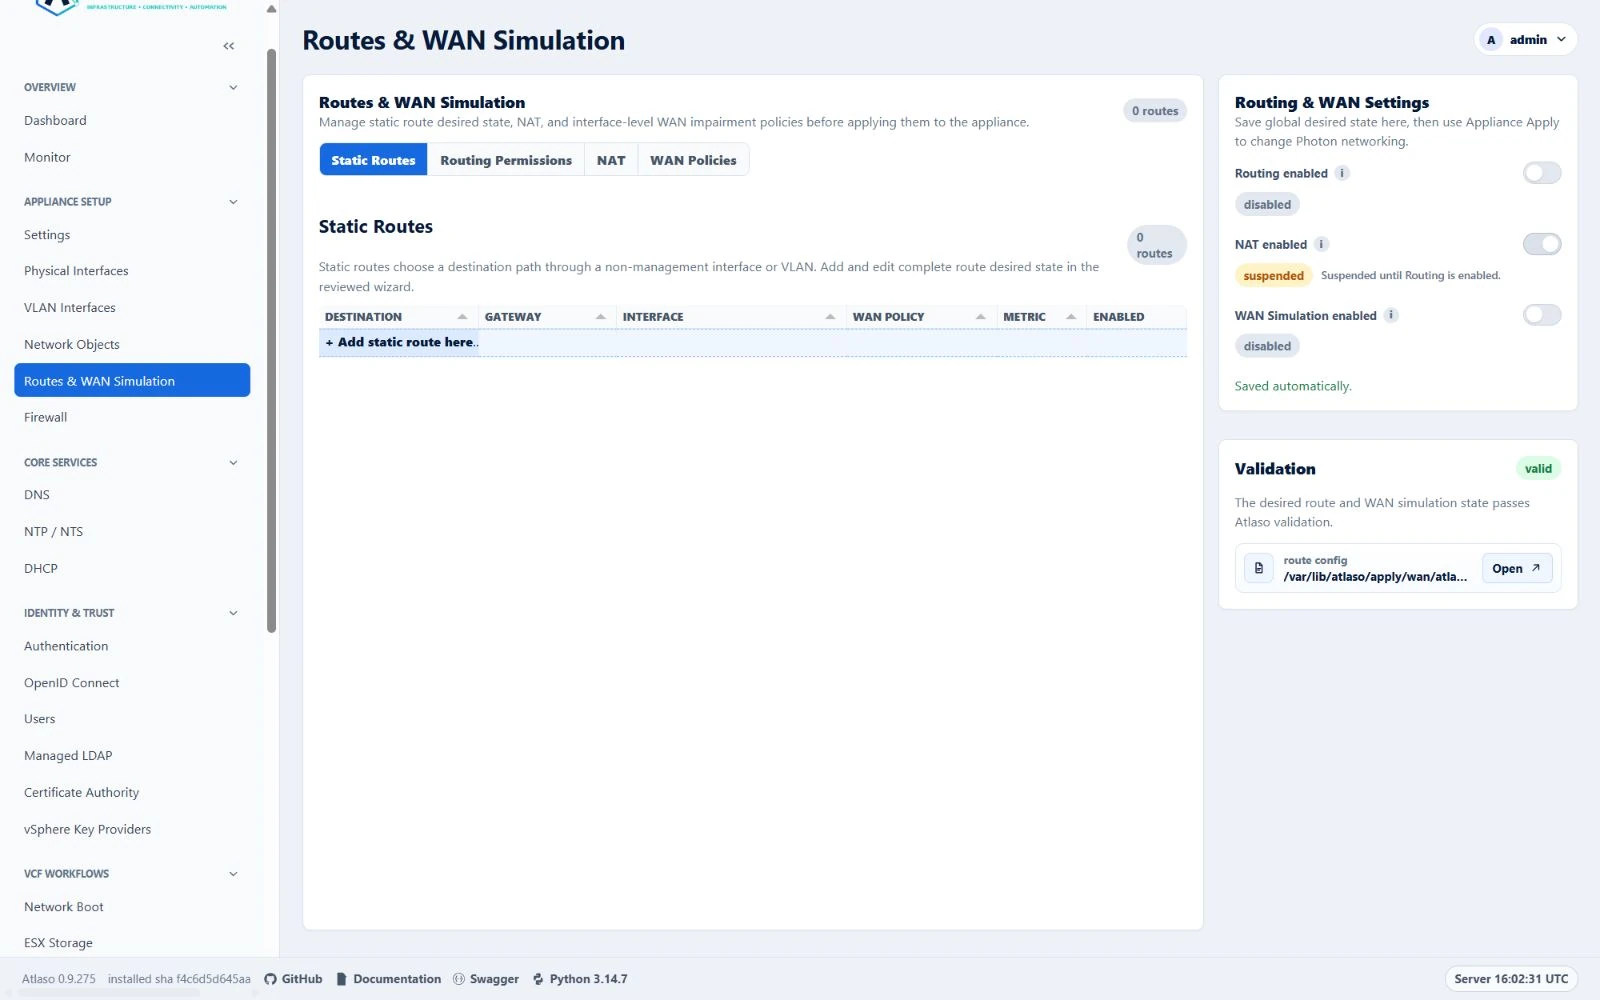
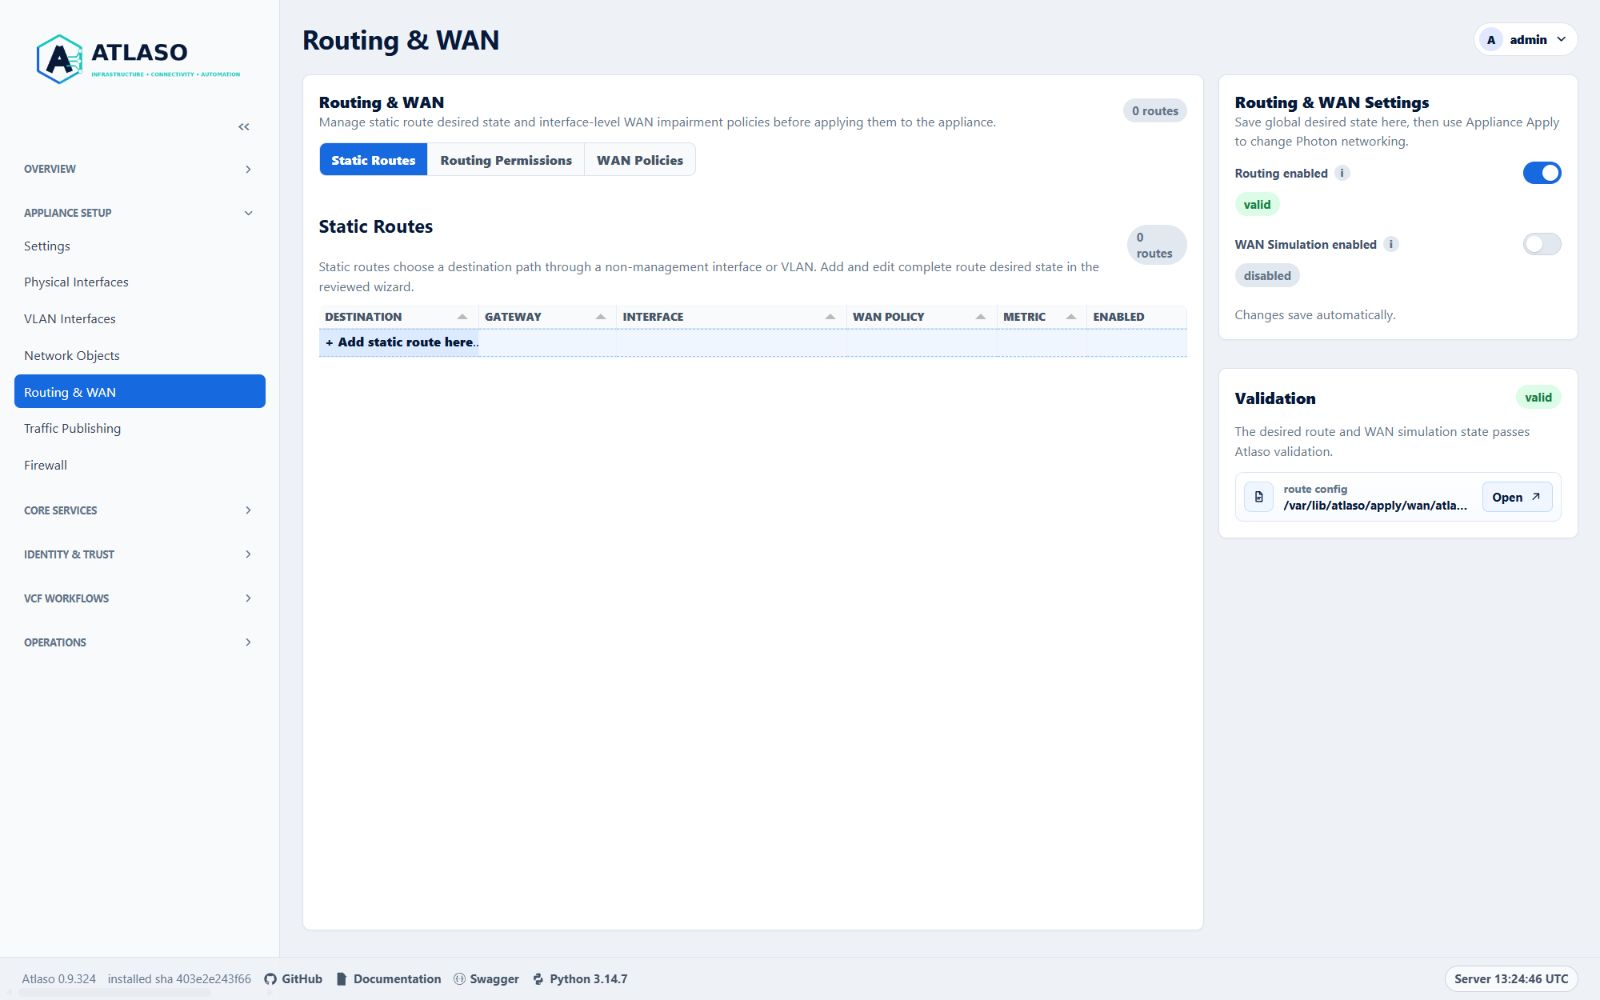
docs: capture deployed Traffic Publishing and routing flows (#721)

diff --git a/scripts/generate_screenshot_manifest.py b/scripts/generate_screenshot_manifest.py
@@ -22,23 +22,23 @@ CAPTURE_OVERRIDES = {
     **{
         stem: {
             "route": "/ui/management/routes-wan",
-            "state": "suspended-nat",
-            "source_commit": "45b4c2c2d640+working-tree",
-            "atlaso_version": "0.9.275",
-            "caption": (
-                "Routes and WAN Simulation with global routing disabled and the saved "
-                "NAT choice visibly suspended."
-            ),
-            "alt": (
-                "Atlaso Routes and WAN Simulation showing disabled routing, a checked "
-                "but unavailable NAT switch, and the suspended status."
-            ),
-            "capture_method": "codex-in-app-browser",
+            "state": "routing-enabled",
+            "source_commit": "acff23cfa411719824a704f20a154877d74ef05b",
+            "atlaso_version": "0.9.324",
+            "caption": "Routing & WAN owns forwarding and WAN simulation; source NAT is configured in Traffic Publishing.",
+            "alt": "Atlaso Routing & WAN with routing enabled, WAN simulation disabled, and no NAT controls.",
+            "capture_method": "edge-browser",
         }
-        for stem in (
-            "routes-wan-clean-desktop",
-            "routes-wan-clean-responsive",
-        )
+        for stem in ("routes-wan-clean-desktop", "routes-wan-clean-responsive")
+    },
+    **{
+        stem: {
+            "source_commit": "acff23cfa411719824a704f20a154877d74ef05b",
+            "atlaso_version": "0.9.324",
+            "capture_method": "edge-browser",
+        }
+        for stem in ("traffic-publishing-desktop", "traffic-publishing-responsive",
+                     "traffic-publishing-wizard-desktop", "traffic-publishing-wizard-responsive")
     },
     **{
         stem: {
@@ -250,6 +250,7 @@ DOCUMENTATION_PAGES = {
     "operate/automation.md": ("automation-",),
     "operate/networking.md": ("physical-interfaces-", "routes-wan-", "vlan-interfaces-"),
     "operate/network-objects.md": ("network-objects-",),
+    "operate/traffic-publishing.md": ("traffic-publishing-",),
     "operate/web-terminal.md": ("terminal-",),
     "services/dns.md": ("dns-",),
     "services/dhcp.md": ("dhcp-",),
@@ -314,6 +315,18 @@ ROUTES = {
 }
 
 SPECIAL = {
+    **{
+        stem: ("/ui/management/traffic-publishing", "applied-source-nat",
+               "Traffic Publishing with reviewed IPv4 masquerade and the canonical NAT setting.",
+               "Atlaso Traffic Publishing showing explicit eth2 ingress, eth3 egress, and enabled source NAT.")
+        for stem in ("traffic-publishing-desktop", "traffic-publishing-responsive")
+    },
+    **{
+        stem: ("/ui/management/traffic-publishing", "ipv6-snat-review",
+               "Review an IPv6 fixed-SNAT rule before saving desired state.",
+               "Atlaso NAT wizard review showing IPv6 fixed SNAT, explicit ingress and egress, and the global Apply boundary.")
+        for stem in ("traffic-publishing-wizard-desktop", "traffic-publishing-wizard-responsive")
+    },
     "about-modal-desktop": (
         "/dashboard",
         "about-modal",

diff --git a/scripts/generate_embedded_screenshot_sections.py b/scripts/generate_embedded_screenshot_sections.py
@@ -18,6 +18,7 @@ ADDITIONAL_BEGIN = "<!-- BEGIN GENERATED ADDITIONAL SCREENSHOTS -->"
 ADDITIONAL_END = "<!-- END GENERATED ADDITIONAL SCREENSHOTS -->"
 
 PRIMARY_IMAGES = {
+    "operate/traffic-publishing.md": "traffic-publishing-desktop.webp",
     "getting-started/index.md": "login-desktop.webp",
     "operate/dashboard.md": "dashboard-clean-desktop.webp",
     "operate/navigation.md": "primary-navigation-expanded-desktop.webp",

diff --git a/docs/project/ui-compliance-matrix.md b/docs/project/ui-compliance-matrix.md
@@ -117,7 +117,7 @@ read-only or unavailable surface has a mutation workflow.
 | `/ui/management/appliance-update` plus update-only browser hold — streams, repositories, modules, tasks, global indicator, parent/child maintenance status | Wizard-backed Tabulator plus non-grid settings, existing read-only Tasks Tabulator, and approved custom/other topbar/status surfaces; ESX Storage, Automation, DNS, account-menu topbar, Review appliance changes, Tasks hierarchy, and Appliance Apply live-task status references | Repository/module details, durable per-stream results, exact action reason, source data, positive-only global indicator, and shared Tasks fallback remain readable; during installation nginx supplies a self-contained no-JavaScript, no-store 503 page with bounded ordered task state | Authenticated positive-only indicator and admin write controls before admission; fresh-check install gate; shared deletion confirmation; update-only page requires no session while the control plane is unavailable and exposes no commands, credentials, or detailed errors; maintenance task boundary remains separate from global apply | Pass D/N/K/F/Z/V | E1–E8 |
 | `/ui/management/automation` — schedules, executions, managed scripts | Wizard-backed and read-only Tabulator; Automation Schedules reference | Truthful schedules, executions, and managed-scripts fallback tables added by #120 | Admin writes, shared discard/destructive confirmation, durable worker/task boundary; no direct host mutation | Pass D/N/K/F/Z/V | E1–E8 |
 | `/ui/management/routes-wan` — global settings, static routes, routing permissions, NAT, policies | Non-grid autosave settings plus wizard-backed Tabulator using four shared `resource_wizard(...)` dialogs; DNS settings and ESX Storage references | Three global switches, four paired fallback tables, and rendered feature-aware validation/config preview | Dual routes/WAN permission gate, reviewed add/edit, direct Enabled state, shared confirmations; generated permissions read-only; enforcement only through global `wan` apply | Pass D/N/K/F/Z/V | E1–E8 |
-| `/ui/management/traffic-publishing` — source NAT | Non-grid autosave plus wizard-backed Tabulator; Routing and WAN, DNS and ESX Storage references | NAT switch, family and mode, fallback and preview | Firewall permissions; global `nat` apply | Pass static contracts; desktop/narrow evidence pending | #721 |
+| `/ui/management/traffic-publishing` — source NAT | Non-grid autosave plus wizard-backed Tabulator; Routing and WAN, DNS and ESX Storage references | NAT switch, family and mode, fallback and preview | Firewall permissions; global `nat` apply | Pass; deployed desktop/narrow grid and IPv6 wizard captures, real Apply and reboot verified | #721 |
 | `/ui/management/network-objects` — Source Groups and consumer usage | Full-height compact wizard-backed Tabulator using the ESX Storage grid/wizard, shared tag editor, and Audit Events workspace references | Source Group fallback, built-in Any, line-separated entries, consumers, and validation render in HTML; JavaScript enhances explicit entries with server-validated non-color tag states | Existing Firewall scopes; stable IDs; exclusive canonical `entries: ["any"]`; shared confirmation; in-use deletion conflict; no direct host mutation | Pass D/N/K/F/Z/V | E1–E8 |
 | `/ui/management/firewall` — operator and managed rules | Wizard-backed and direct-edit Tabulator plus non-grid settings; DNS/ESX Storage references | Rule and managed-rule fallbacks, validation, and preview | Role-gated edits; Network Objects return handoff; shared remove confirmation; global `firewall` apply only | Pass D/N/K/F/Z/V | E1–E8 |
 | `/ui/management/physical-interfaces` — observed and desired interfaces | Direct-edit Tabulator with the shared boolean glyph formatter; Physical Interfaces reference | Paired interface fallback with observed and desired values, including access management UI exposure | Role-gated desired-state edits; management-path lockout validation; confirmation for guarded state changes; global `network` apply only | Pass D/N/K/F/Z/V | E1–E8 |

diff --git a/docs/reference/interface-gallery.md b/docs/reference/interface-gallery.md
@@ -443,13 +443,13 @@ Figure: Public certificate requests remain contained in the narrow viewport.
 
 Route: `/ui/management/routes-wan`
 
-![Atlaso Routes and WAN Simulation showing disabled routing, a checked but unavailable NAT switch, and the suspended status.](../assets/screenshots/routes-wan-clean-desktop.webp)
+![Atlaso Routing & WAN with routing enabled, WAN simulation disabled, and no NAT controls.](../assets/screenshots/routes-wan-clean-desktop.webp)
 
-Figure: Routes and WAN Simulation with global routing disabled and the saved NAT choice visibly suspended.
+Figure: Routing & WAN owns forwarding and WAN simulation; source NAT is configured in Traffic Publishing.
 
-![Atlaso Routes and WAN Simulation showing disabled routing, a checked but unavailable NAT switch, and the suspended status.](../assets/screenshots/routes-wan-clean-responsive.webp)
+![Atlaso Routing & WAN with routing enabled, WAN simulation disabled, and no NAT controls.](../assets/screenshots/routes-wan-clean-responsive.webp)
 
-Figure: Routes and WAN Simulation with global routing disabled and the saved NAT choice visibly suspended.
+Figure: Routing & WAN owns forwarding and WAN simulation; source NAT is configured in Traffic Publishing.
 
 ## Routes Wan: Policies
 
@@ -538,6 +538,26 @@ Figure: Web terminal connected to the verified Photon appliance in the desktop v
 ![Atlaso Web terminal connected as the admin user in the responsive viewport.](../assets/screenshots/terminal-clean-responsive.webp)
 
 Figure: Web terminal connected to the verified Photon appliance in the responsive viewport.
+
+## Traffic Publishing
+
+Route: `/ui/management/traffic-publishing`
+
+![Atlaso Traffic Publishing showing explicit eth2 ingress, eth3 egress, and enabled source NAT.](../assets/screenshots/traffic-publishing-desktop.webp)
+
+Figure: Traffic Publishing with reviewed IPv4 masquerade and the canonical NAT setting.
+
+![Atlaso Traffic Publishing showing explicit eth2 ingress, eth3 egress, and enabled source NAT.](../assets/screenshots/traffic-publishing-responsive.webp)
+
+Figure: Traffic Publishing with reviewed IPv4 masquerade and the canonical NAT setting.
+
+![Atlaso NAT wizard review showing IPv6 fixed SNAT, explicit ingress and egress, and the global Apply boundary.](../assets/screenshots/traffic-publishing-wizard-desktop.webp)
+
+Figure: Review an IPv6 fixed-SNAT rule before saving desired state.
+
+![Atlaso NAT wizard review showing IPv6 fixed SNAT, explicit ingress and egress, and the global Apply boundary.](../assets/screenshots/traffic-publishing-wizard-responsive.webp)
+
+Figure: Review an IPv6 fixed-SNAT rule before saving desired state.
 
 ## Users
 

diff --git a/docs/operate/traffic-publishing.md b/docs/operate/traffic-publishing.md
@@ -13,6 +13,17 @@ Use **Network → Traffic Publishing** at `/ui/management/traffic-publishing` to
 at `/ui/management/routes-wan` owns static routes, routing permissions, forwarding, and WAN simulation. Traffic
 Publishing requires Firewall read permission; changing its browser settings or rules requires Firewall write permission.
 
+<!-- BEGIN GENERATED INTERFACE OVERVIEW -->
+## Interface overview
+
+This verified appliance view provides visual orientation before you begin.
+
+![Atlaso Traffic Publishing showing explicit eth2 ingress, eth3 egress, and enabled source NAT.](../assets/screenshots/traffic-publishing-desktop.webp)
+
+*Figure: Traffic Publishing with reviewed IPv4 masquerade and the canonical NAT setting.*
+
+<!-- END GENERATED INTERFACE OVERVIEW -->
+
 ## Configure source translation
 
 1. Configure two distinct addressed lab targets in Physical Interfaces or VLAN Interfaces. Use enabled `access` or
@@ -79,3 +90,24 @@ setting in the same desired-state transaction. It does not create a second NAT o
 
 Existing Routes/WAN NAT form submissions are internally handled and return a same-host `303` to Traffic Publishing;
 mutations are never replayed through `307` or `308`. Use the canonical Traffic Publishing bookmark for the rule grid.
+
+<!-- BEGIN GENERATED ADDITIONAL SCREENSHOTS -->
+## Additional verified states
+
+These captures show responsive layouts and useful operational states referenced by this page.
+
+### Traffic Publishing
+
+![Atlaso Traffic Publishing showing explicit eth2 ingress, eth3 egress, and enabled source NAT.](../assets/screenshots/traffic-publishing-responsive.webp)
+
+*Figure: Traffic Publishing with reviewed IPv4 masquerade and the canonical NAT setting.*
+
+![Atlaso NAT wizard review showing IPv6 fixed SNAT, explicit ingress and egress, and the global Apply boundary.](../assets/screenshots/traffic-publishing-wizard-desktop.webp)
+
+*Figure: Review an IPv6 fixed-SNAT rule before saving desired state.*
+
+![Atlaso NAT wizard review showing IPv6 fixed SNAT, explicit ingress and egress, and the global Apply boundary.](../assets/screenshots/traffic-publishing-wizard-responsive.webp)
+
+*Figure: Review an IPv6 fixed-SNAT rule before saving desired state.*
+
+<!-- END GENERATED ADDITIONAL SCREENSHOTS -->

diff --git a/docs/operate/networking.md b/docs/operate/networking.md
@@ -285,13 +285,13 @@ These captures show responsive layouts and useful operational states referenced 
 
 ### Routes and WAN simulation
 
-![Atlaso Routes and WAN Simulation showing disabled routing, a checked but unavailable NAT switch, and the suspended status.](../assets/screenshots/routes-wan-clean-desktop.webp)
+![Atlaso Routing & WAN with routing enabled, WAN simulation disabled, and no NAT controls.](../assets/screenshots/routes-wan-clean-desktop.webp)
 
-*Figure: Routes and WAN Simulation with global routing disabled and the saved NAT choice visibly suspended.*
+*Figure: Routing & WAN owns forwarding and WAN simulation; source NAT is configured in Traffic Publishing.*
 
-![Atlaso Routes and WAN Simulation showing disabled routing, a checked but unavailable NAT switch, and the suspended status.](../assets/screenshots/routes-wan-clean-responsive.webp)
+![Atlaso Routing & WAN with routing enabled, WAN simulation disabled, and no NAT controls.](../assets/screenshots/routes-wan-clean-responsive.webp)
 
-*Figure: Routes and WAN Simulation with global routing disabled and the saved NAT choice visibly suspended.*
+*Figure: Routing & WAN owns forwarding and WAN simulation; source NAT is configured in Traffic Publishing.*
 
 ### VLAN interfaces
 
